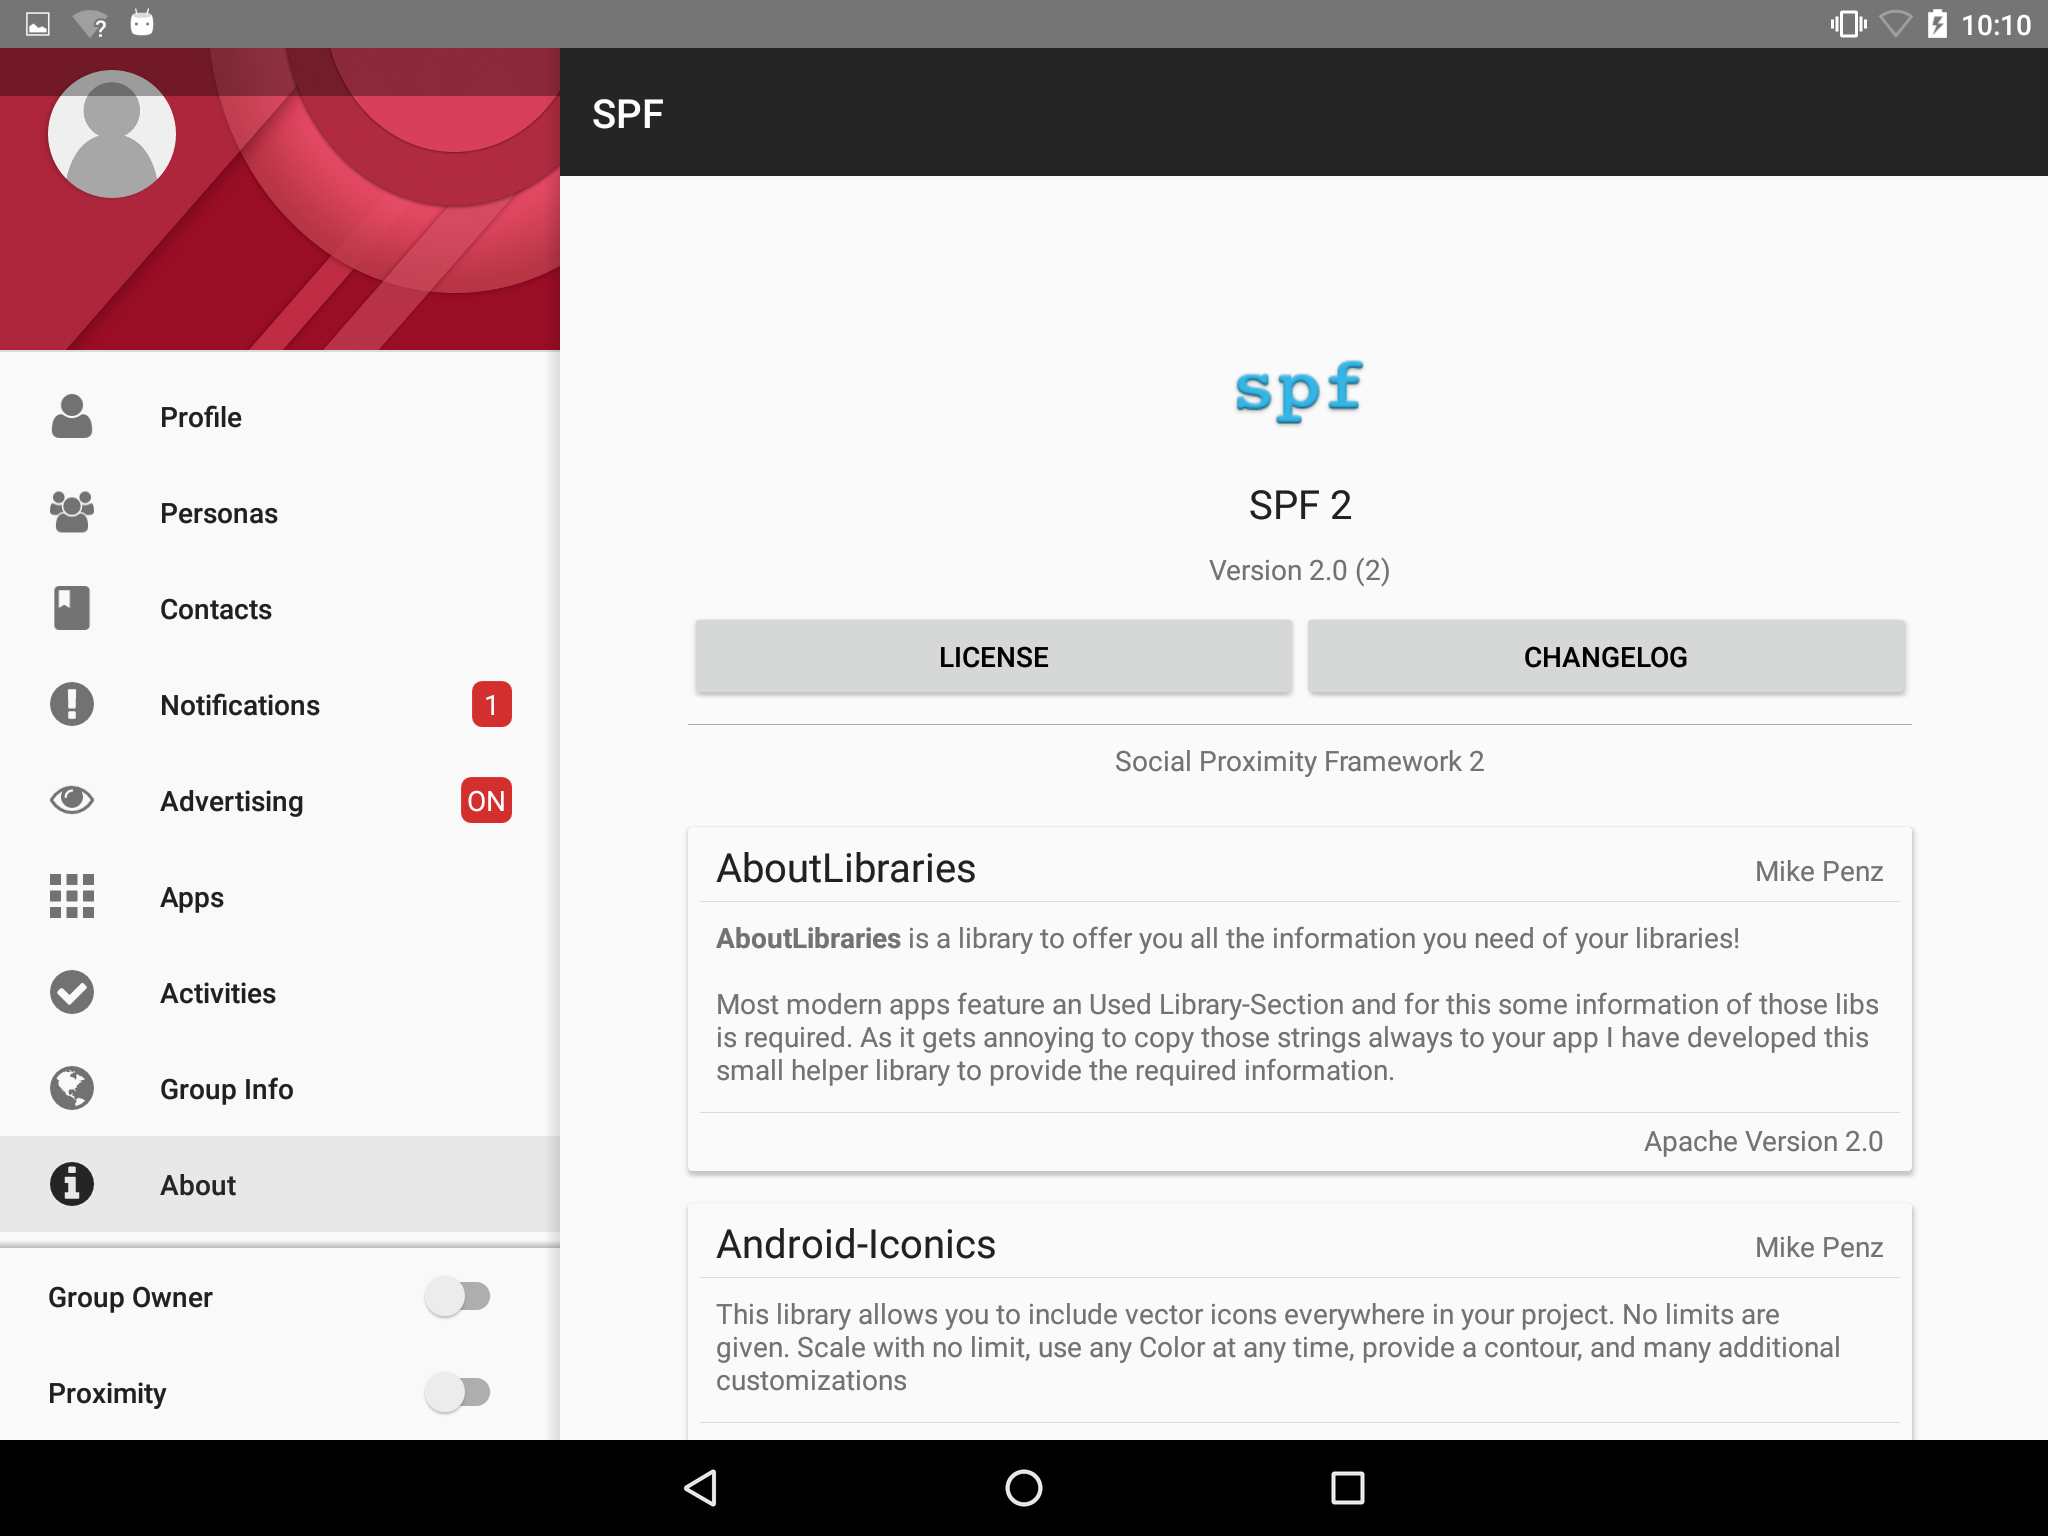
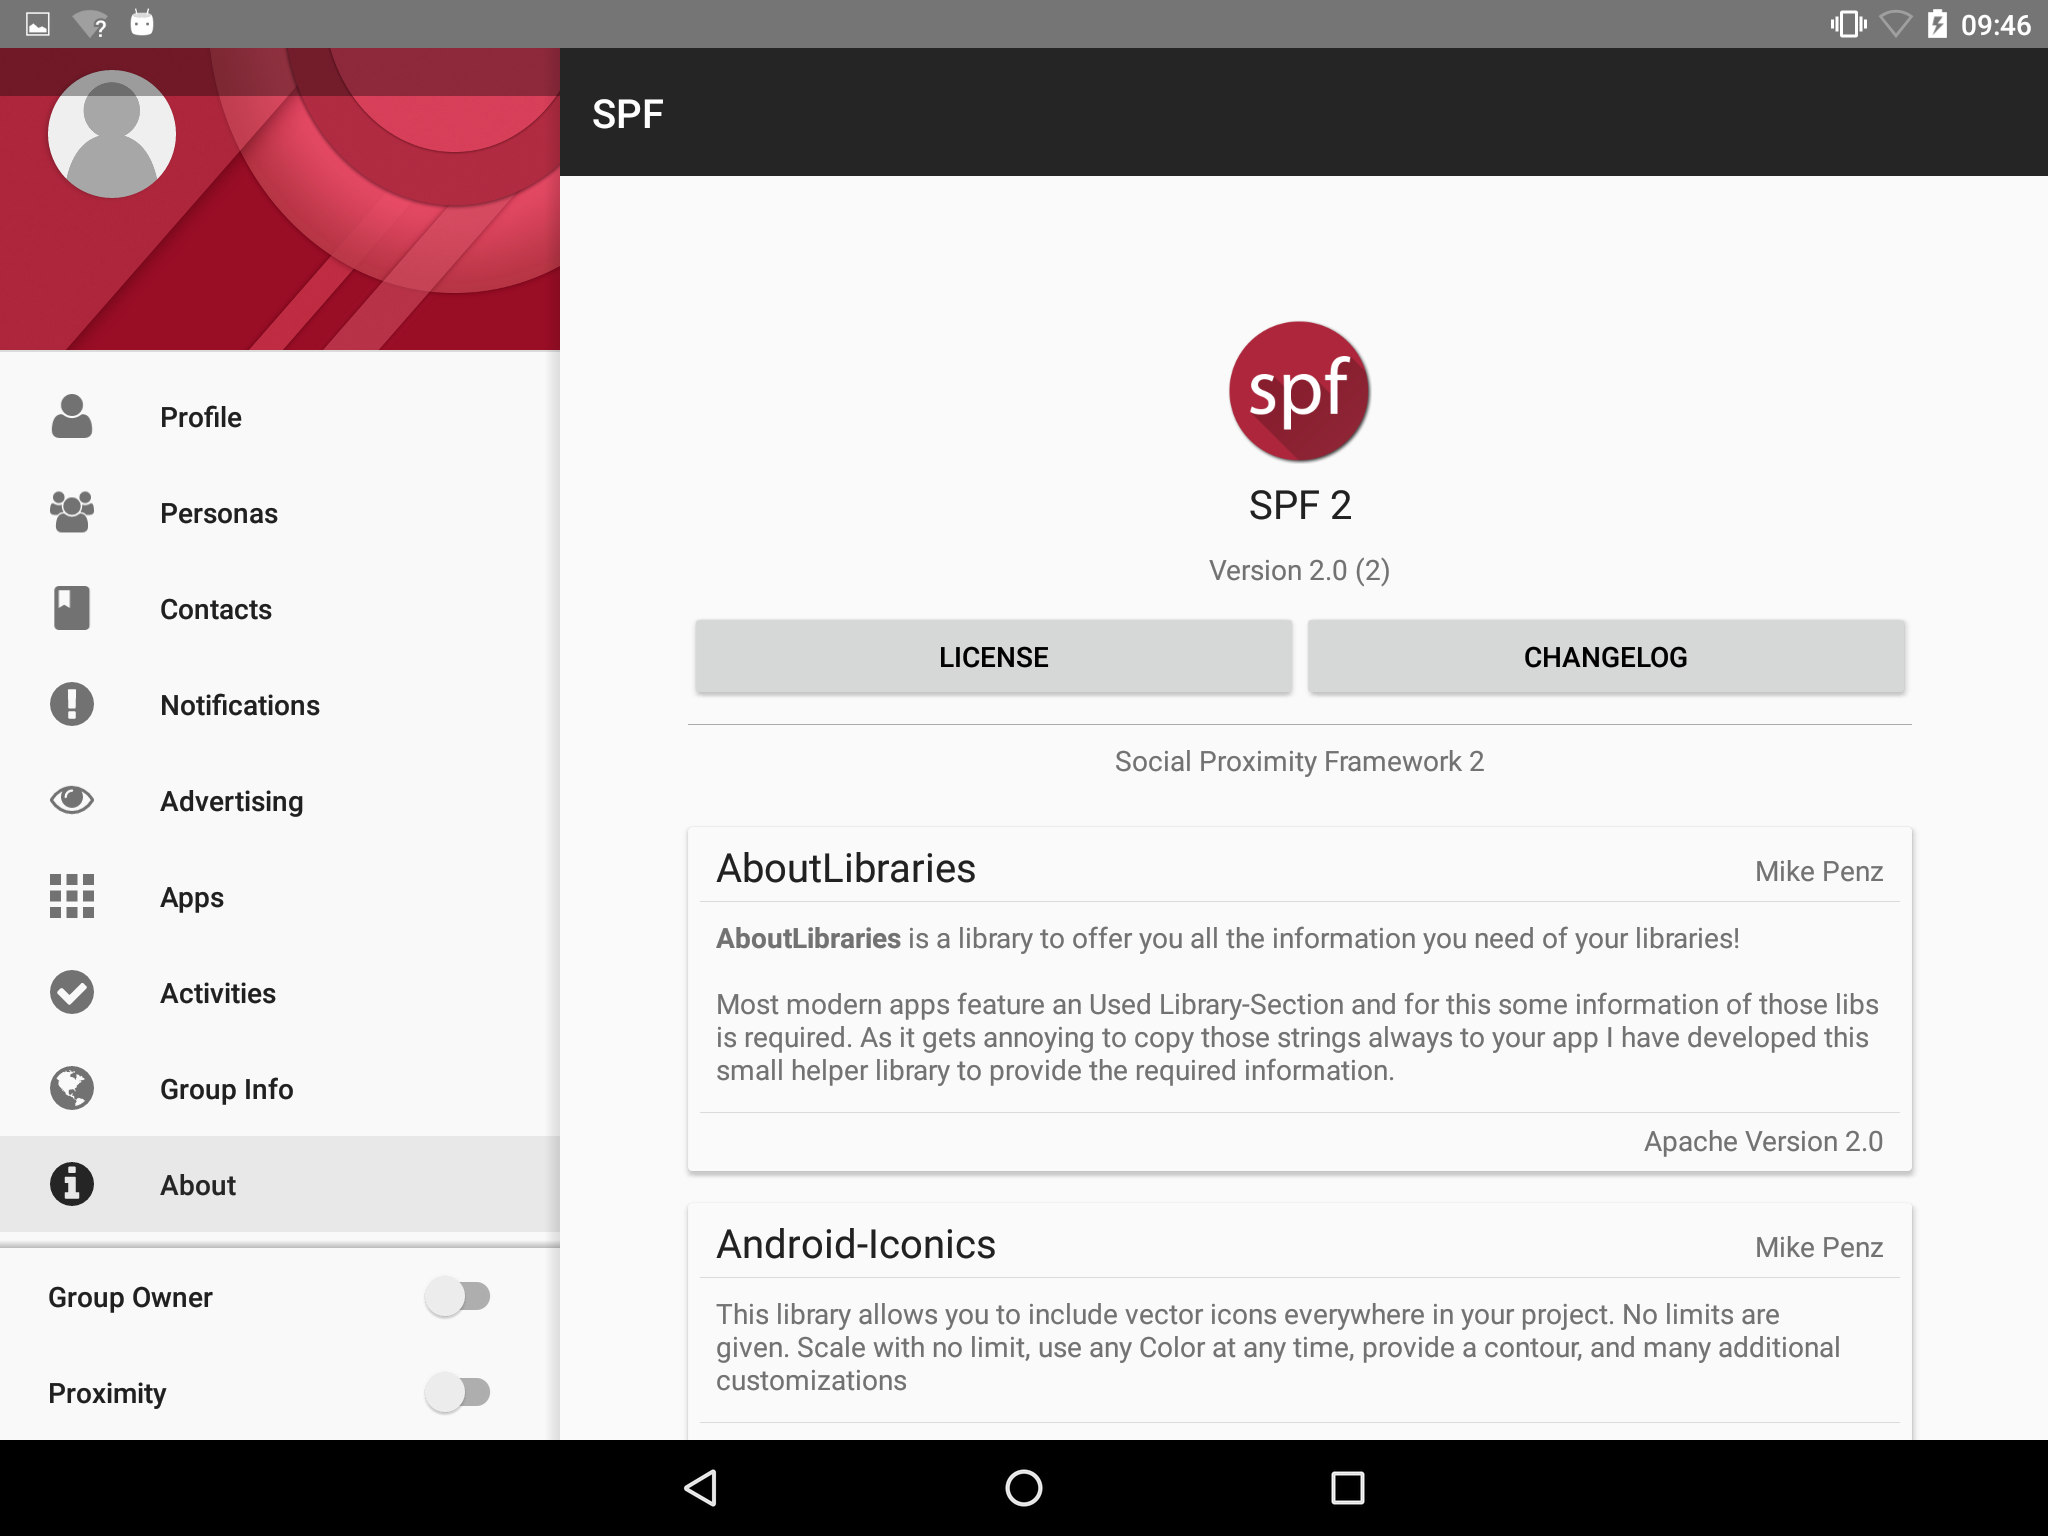
updated build.gradle and images/readme

diff --git a/README.md b/README.md
@@ -1,8 +1,8 @@
 [![License LGPL 3](https://img.shields.io/badge/license-LGPLv3-blue.svg)](http://www.gnu.org/licenses/lgpl-3.0.txt)
-[![Build Status](https://travis-ci.org/Ks89/SPF2.svg?branch=master)](https://travis-ci.org/Ks89/SPF2)
+[![Build Status](https://travis-ci.org/deib-polimi/SPF2.svg?branch=master)](https://travis-ci.org/deib-polimi/SPF2)
 
-[![Issue Stats](http://issuestats.com/github/Ks89/SPF2/badge/pr?style=flat)](http://issuestats.com/github/Ks89/SPF2)
-[![Issue Stats](http://issuestats.com/github/Ks89/SPF2/badge/issue?style=flat)](http://issuestats.com/github/Ks89/SPF2)
+[![Issue Stats](http://issuestats.com/github/deib-polimi/SPF2/badge/pr?style=flat)](http://issuestats.com/github/deib-polimi/SPF2)
+[![Issue Stats](http://issuestats.com/github/deib-polimi/SPF2/badge/issue?style=flat)](http://issuestats.com/github/deib-polimi/SPF2)
 
 # SPF2
 
@@ -39,6 +39,7 @@ because Gradle caches dependencies automatically into ~/.gradle/caches/modules-2
 
 ## Releases
 
+- *10/30/2015* - **SPF2** 2.0.1 - [Download](https://github.com/deib-polimi/SPF2/releases/tag/v.2.0.1)
 - *10/27/2015* - **SPF2** 2.0.0 - [Download](https://github.com/deib-polimi/SPF2/releases/tag/v.2.0.0)
 - *10/26/2015* - **SPF2** RC 1 - [Download](https://github.com/deib-polimi/SPF2/releases/tag/v.rc1)
 - *10/22/2015* - **SPF2** Beta 4- [Download](https://github.com/deib-polimi/SPF2/releases/tag/v.beta4)
@@ -86,7 +87,7 @@ The official doc is composed by these files:
 - (2014) Master Thesis of Jacopo Aliprandi and Dario Archetti available [HERE](http://hdl.handle.net/10589/106727)
 
 
-## How to publish dependencies
+## How to publish dependencies?
 
 Change the information inside "private_bintray.properties" to be able to push dependencies on JFrog Bintray.
 
@@ -96,15 +97,33 @@ bintrayApiKey=your_apikey
 bintrayGpgPassword=your_chosen_gpg_password
 ```
 
-After that, follow this procedure.
-1. Remember to update the versions inside "build.gradle" of spflib and spfshared.
-2. Sync and build the project
-3. In Android Studio Terminal type these commands into the SPF's root folder:
+After that, follow this procedure:
+- Remember to update the versions inside "build.gradle" of spflib and spfshared <br />
+- Sync and build the project <br />
+- In Android Studio Terminal type these commands into the SPF's root folder:
    ```
     gradlew install
     gradlew bintrayUpload
    ```
-4. Done!!!
+- Done!!! <br />
+
+
+## How to create SPF's applications?
+
+Add these dependencies into your local module's build.gradle:
+
+```
+dependencies {
+compile 'it.polimi.spf:spflib:2.0.0.1@aar'
+compile 'it.polimi.spf:spfshared:2.0.0.1@aar'
+}
+```
+
+Examples:
+- [SPFCouponingProvider demo](https://github.com/deib-polimi/SPF2CouponingProviderDemo) <br />
+- [SPFCouponingClient demo](https://github.com/deib-polimi/SPF2CouponingClientDemo) <br />
+- [SPFChat demo](https://github.com/deib-polimi/SPF2ChatDemo) <br />
+
 
 ## License
 Copyright 2014 Jacopo Aliprandi, Dario Archetti<br>

diff --git a/CHANGELOG.md b/CHANGELOG.md
@@ -1,3 +1,10 @@
+**2.0.1**
+
+1. Fixed gradle scripts to manage dependencies in the correct way.
+2. Improve app icon
+
+
+
 **2.0.0**
 
 1. project moved from Eclipse to Android Studio.
